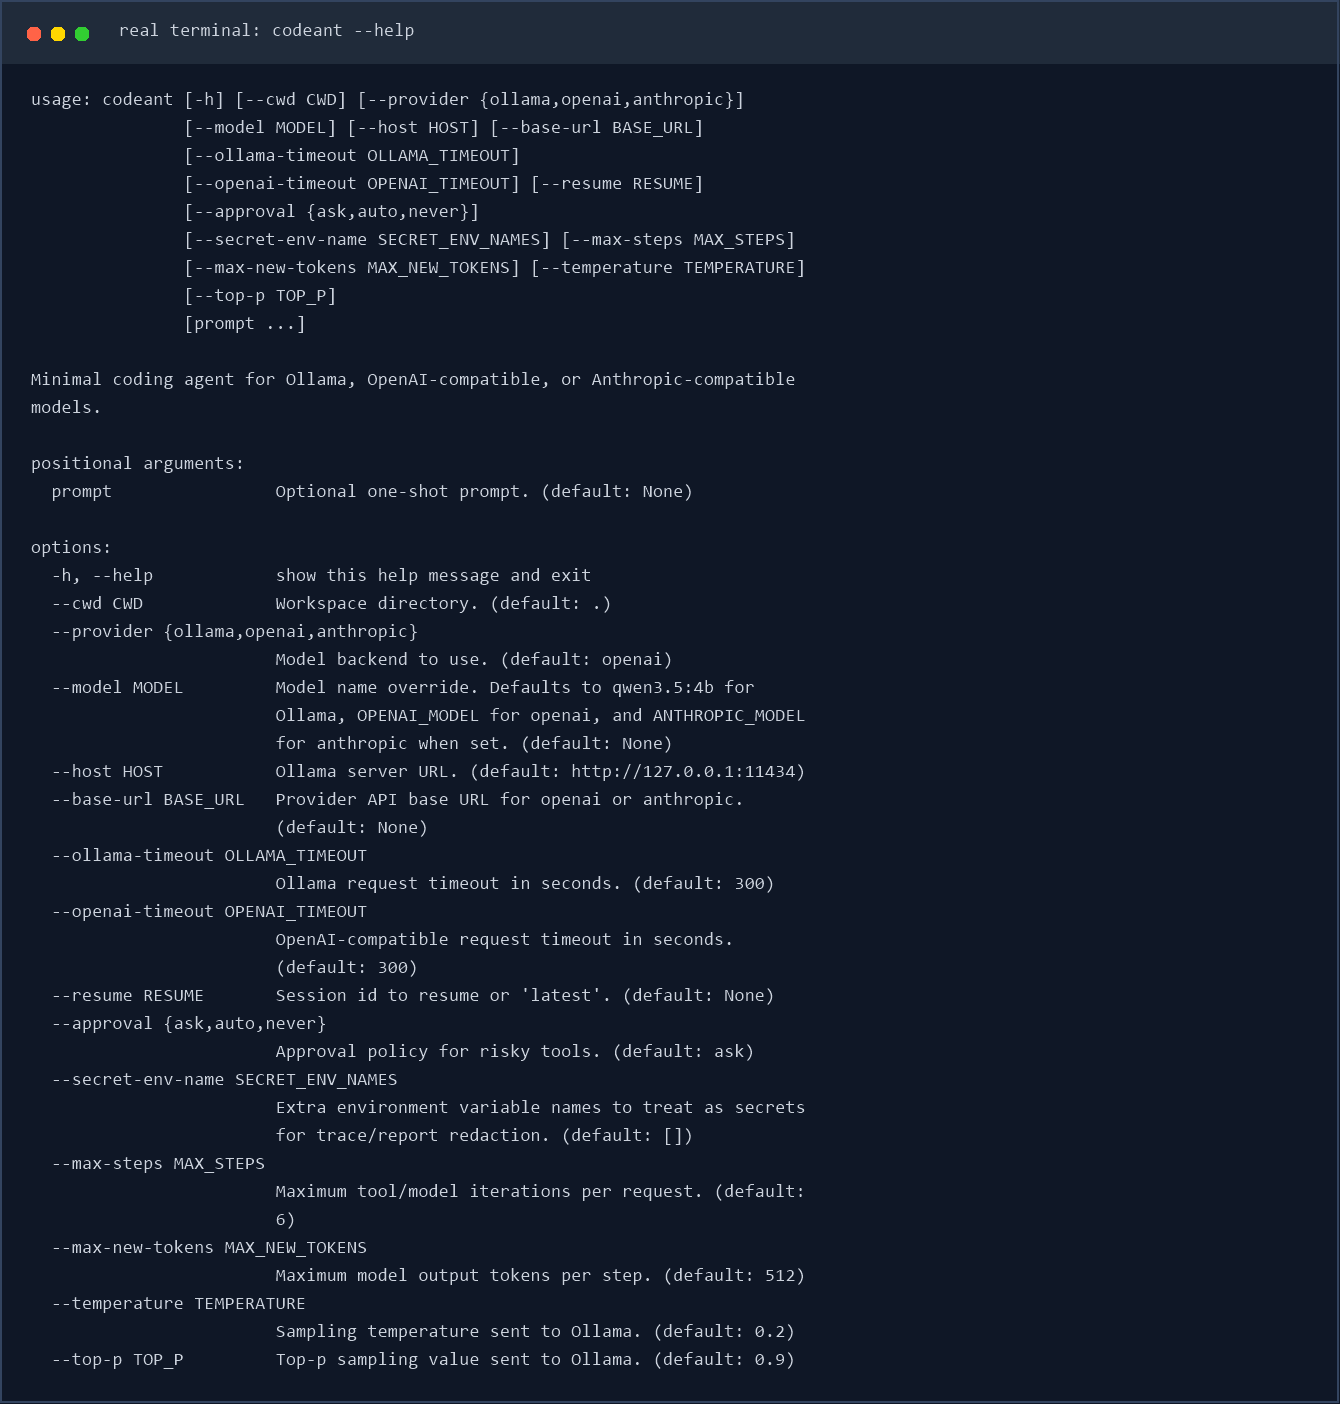
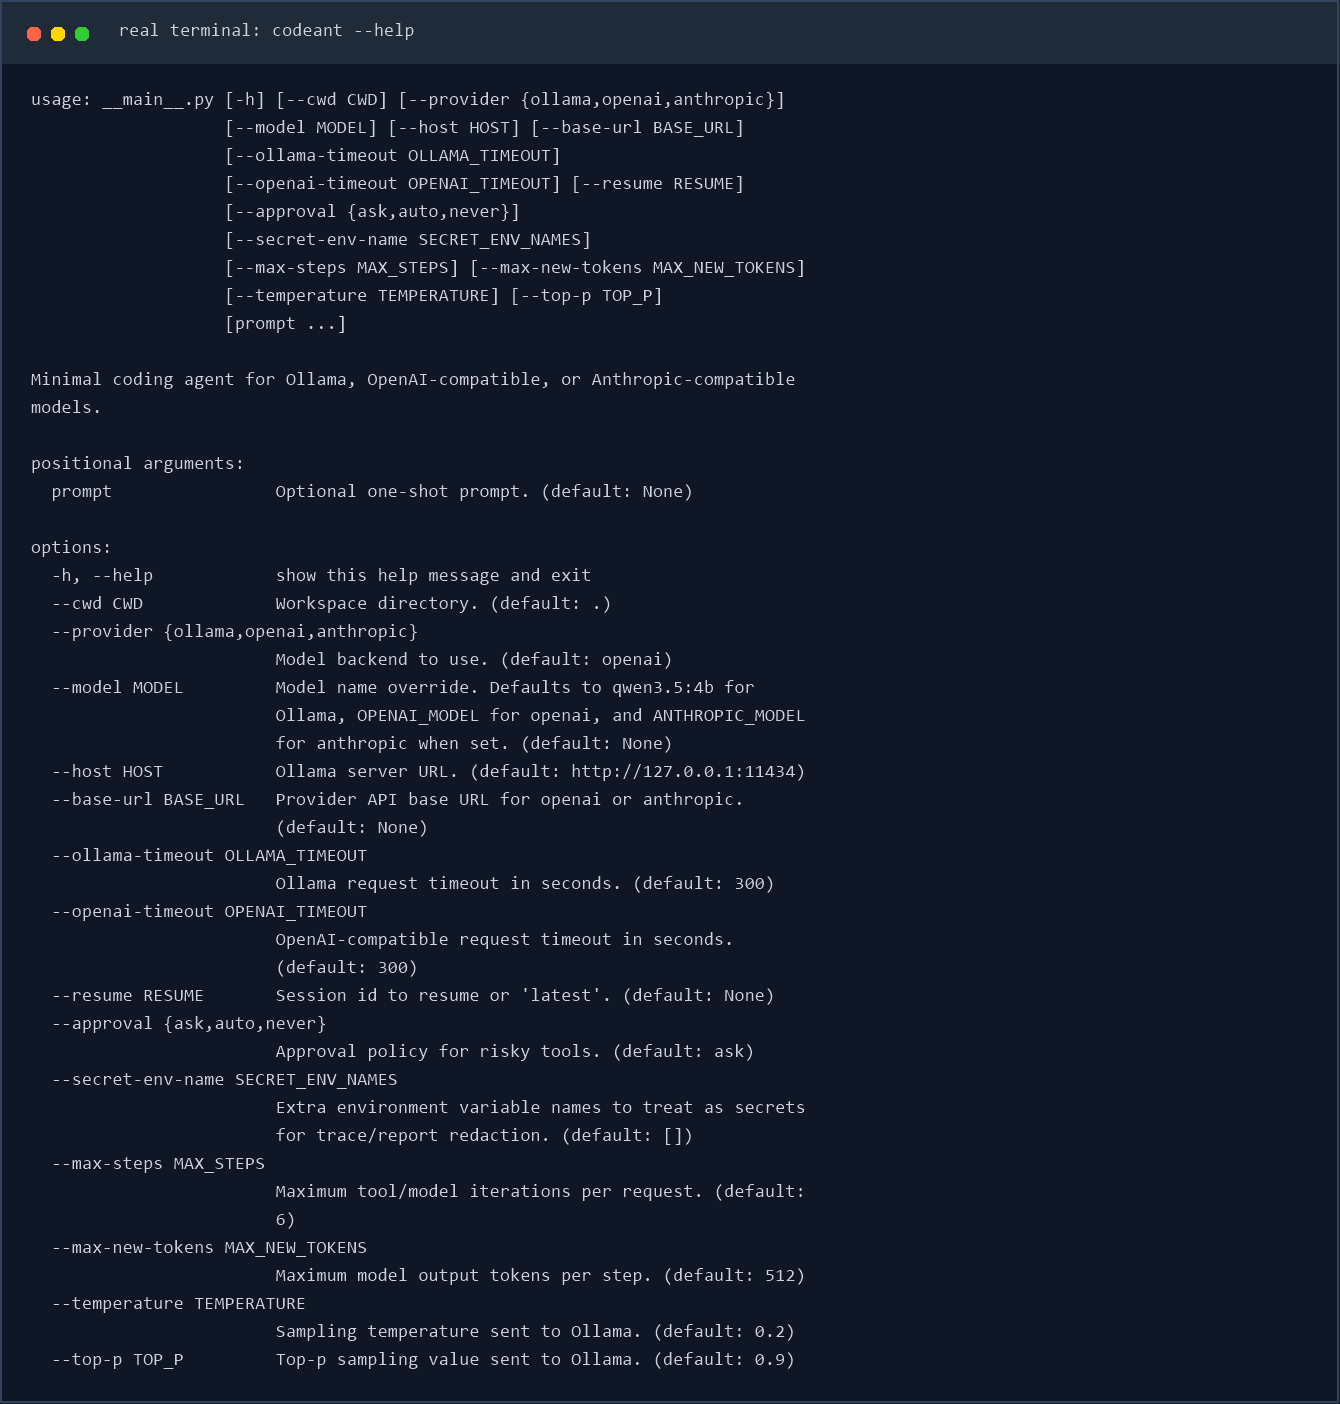
Replace welcome mascot with an ant

Changed region(s): [[0.1224, 0.0613, 0.5813, 0.245], [0.4896, 0.1225, 0.5507, 0.1531]]

diff --git a/codeant/cli.py b/codeant/cli.py
@@ -149,12 +149,15 @@ def _stdout_supports_color() -> bool:
 
 
 def _welcome_art_lines(colored: bool) -> tuple[str, ...]:
-    """对称 ASCII 猫头横幅；交互式终端下可使用 ANSI 多色高亮。"""
+    """对称 ASCII 蚂蚁横幅；交互式终端下可使用 ANSI 多色高亮。"""
     plain = (
-        "      .-----.      ",
-        "     / o   o \\     ",
-        "     |   ^   |     ",
-        "     \\_______/     ",
+        "          \\  /          ",
+        "       .-''''-.       ",
+        "     .'  o  o  `.     ",
+        "    /      ^      \\    ",
+        " .-'|   .-----.   |`-. ",
+        "/   |__/       \\__|   \\ ",
+        "\\__/   \\_____/   \\__/ ",
     )
     if not colored:
         return plain
@@ -164,10 +167,13 @@ def _welcome_art_lines(colored: bool) -> tuple[str, ...]:
     nose = "\033[95m"
     chin = "\033[92m"
     return (
-        f"{frame}      .-----.      {reset}",
-        f"{frame}     / {eyes}o{frame}   {eyes}o{frame} \\     {reset}",
-        f"{frame}     |   {nose}^{frame}   |     {reset}",
-        f"{frame}     {chin}\\_______/{frame}     {reset}",
+        f"{frame}          \\  /          {reset}",
+        f"{frame}       .-''''-.       {reset}",
+        f"{frame}     .'  {eyes}o{frame}  {eyes}o{frame}  `.     {reset}",
+        f"{frame}    /      {nose}^{frame}      \\    {reset}",
+        f"{frame} .-'|   {chin}.-----.{frame}   |`-. {reset}",
+        f"{frame}/   |__/       \\__|   \\{reset}",
+        f"{frame}\\__/   {chin}\\_____/{frame}   \\__/ {reset}",
     )
 
 

diff --git a/tests/test_codeant.py b/tests/test_codeant.py
@@ -288,11 +288,12 @@ def test_welcome_screen_keeps_box_shape_for_long_paths(tmp_path):
     assert len(lines) >= 5
     assert len({len(line) for line in lines}) == 1
     assert "..." in welcome
-    assert "(  o o  )" in welcome
+    assert "o  o" in welcome
+    assert "\\  /" in welcome
     assert "MINI-CODING-AGENT" not in welcome
     assert "MINI CODING AGENT" not in welcome
-    assert "codeant" in welcome
-    assert "local coding agent" in welcome
+    assert "CODEANT" in welcome
+    assert "Local Coding Agent" in welcome
     assert "// READY" not in welcome
     assert "SLASH" not in welcome
     assert "READY      " not in welcome
